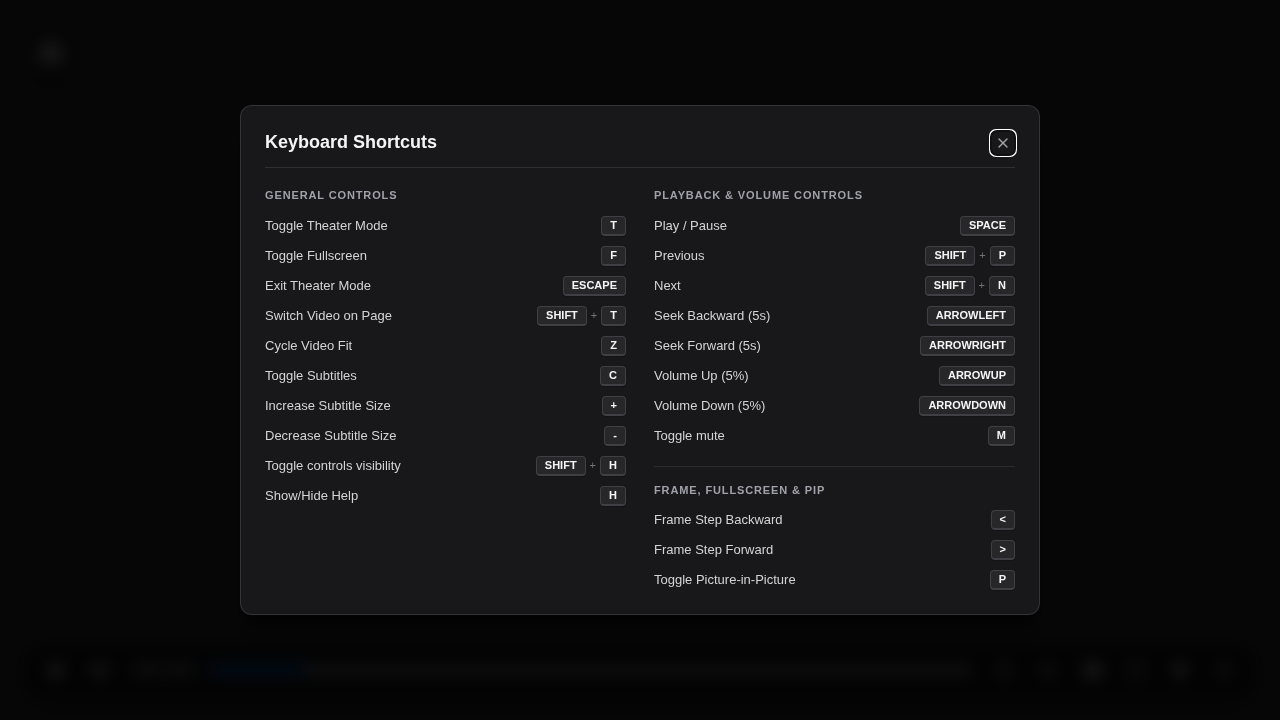
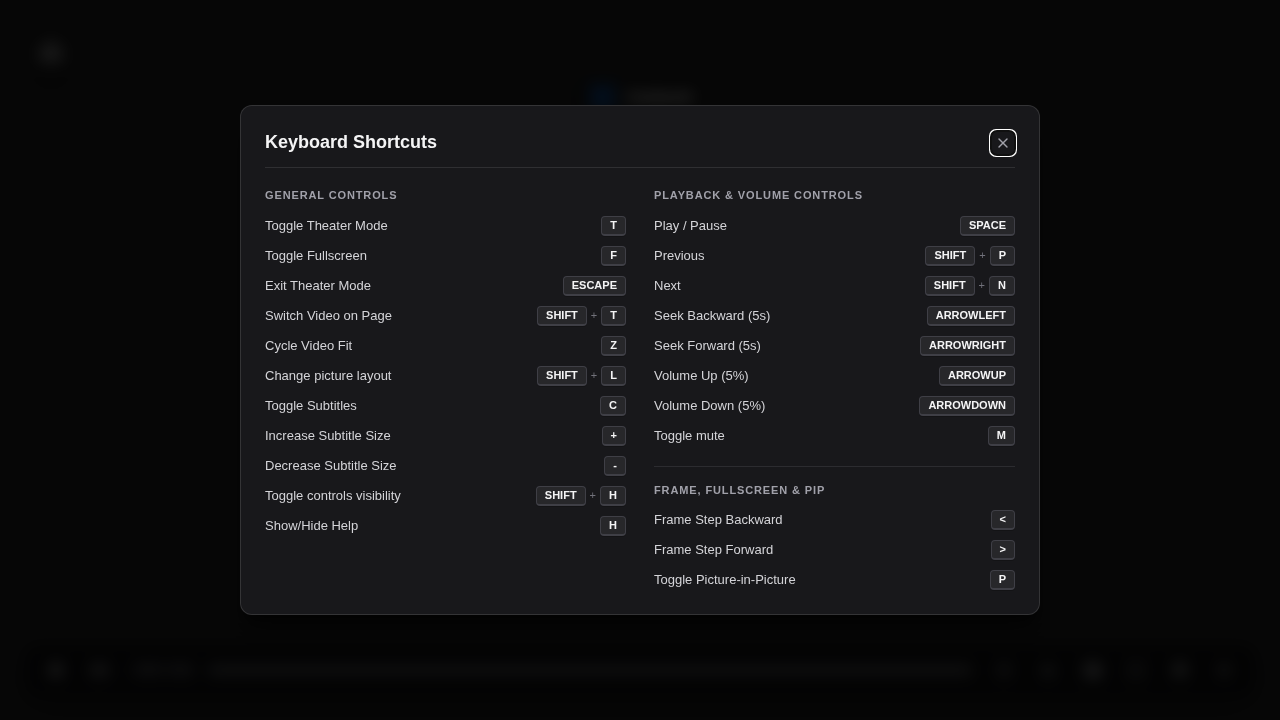
Add player layout setting and configurable Shift+L shortcut

diff --git a/scripts/smoke.ts b/scripts/smoke.ts
@@ -195,7 +195,7 @@ async function assertControlsPin(page: Page, context?: BrowserContext): Promise<
   const placement = await page.evaluate(() => {
     const root = document.getElementById('theater-everywhere-ui')!.shadowRoot!;
     const primary = ['play-pause-btn', 'playlist-prev-btn', 'playlist-next-btn', 'volume-btn', 'speed-btn', 'cc-btn', 'pip-btn', 'fullscreen-btn', 'close-btn'];
-    const secondary = ['video-fit-btn', 'controls-visibility-toggle', 'help-btn'];
+    const secondary = ['video-fit-btn', 'picture-layout-btn', 'controls-visibility-toggle', 'help-btn'];
     return [...primary.map(name => ({ name, expected: '.theater-controls-row' })), ...secondary.map(name => ({ name, expected: '.theater-settings-menu' }))]
       .filter(({ name, expected }) => {
         const buttons = root.querySelectorAll(`.${name}`);
@@ -317,6 +317,8 @@ async function assertControlsPin(page: Page, context?: BrowserContext): Promise<
   if (!await menu.locator('.video-fit-btn').evaluate(button => button.matches(':focus'))) {
     fail('Tab from the trigger skipped open settings.');
   }
+  await page.keyboard.press('Tab');
+  if (!await menu.locator('.picture-layout-btn').evaluate(button => button.matches(':focus'))) fail('Tab skipped the picture layout setting.');
   await page.keyboard.press('Tab');
   if (!await pin.evaluate(button => button.matches(':focus'))) fail('Tab skipped the controls visibility setting.');
   await page.keyboard.press('Tab');
@@ -793,7 +795,90 @@ async function assertShortcutManagement(page: Page, context: BrowserContext): Pr
 }
 
 
-async function assertFullscreenAndHelp(page: Page, earlyHost = false): Promise<void> {
+async function assertPictureLayout(page: Page, context?: BrowserContext): Promise<void> {
+  const video = page.locator('video#player');
+  const gear = page.locator('.player-settings-btn');
+  const row = page.locator('.picture-layout-btn');
+  await page.setViewportSize({ width: 1280, height: 900 });
+  await gear.click();
+  await row.waitFor();
+  if (await row.getAttribute('aria-keyshortcuts') !== 'Shift+L') fail('Layout shortcut is missing from player settings.');
+  const waitPosition = async (position: string) => {
+    await page.waitForFunction(position => getComputedStyle(document.querySelector('video#player')!).objectPosition === position, position, { timeout: 5000 });
+  };
+  await row.click();
+  await waitPosition('50% 0%');
+  if (await row.locator('.theater-settings-detail').innerText() !== 'Raised') fail('Layout row did not update after a click.');
+  await page.keyboard.down('Shift');
+  await page.keyboard.down('l');
+  await page.keyboard.down('l');
+  await page.keyboard.up('l');
+  await page.keyboard.up('Shift');
+  await waitPosition('50% 50%');
+  if (await row.locator('.theater-settings-detail').innerText() !== 'Centered') fail('Held layout shortcut toggled repeatedly.');
+  await page.evaluate(() => {
+    const host = document.createElement('div'); host.id = 'layout-input-test';
+    const input = document.createElement('input'); host.attachShadow({ mode: 'open' }).append(input);
+    document.body.append(host); input.focus();
+  });
+  await page.keyboard.press('Shift+L');
+  if (await video.evaluate(video => getComputedStyle(video).objectPosition) !== '50% 50%') fail('Layout shortcut fired in a shadow input.');
+  await page.evaluate(() => document.getElementById('layout-input-test')?.remove());
+  if (!await row.isVisible()) await gear.click();
+  const fit = page.locator('.video-fit-btn');
+  await fit.click(); // Fill keeps the chosen layout preference, but centers the picture.
+  await row.click();
+  await waitPosition('50% 50%');
+  await fit.click(); // Stretch.
+  await waitPosition('50% 50%');
+  await fit.click(); // Back to Fit restores Raised.
+  await waitPosition('50% 0%');
+  if (context) {
+    const worker = await extensionWorker(context);
+    const options = await context.newPage();
+    try {
+      await options.goto(new URL('options/options.html', worker.url()).href);
+      await options.waitForSelector('.shortcuts-grid[aria-busy="false"]');
+      await options.waitForSelector('[data-picture-align="top"][aria-checked="true"]');
+      await options.locator('#shortcut-cycle-layout').press('Shift+K');
+      await page.waitForFunction(() => document.getElementById('theater-everywhere-ui')?.shadowRoot?.querySelector('.picture-layout-btn')?.getAttribute('aria-keyshortcuts') === 'Shift+K');
+      await page.bringToFront();
+      await page.keyboard.press('Shift+L');
+      if (await video.evaluate(video => getComputedStyle(video).objectPosition) !== '50% 0%') fail('Old layout shortcut remained active after customization.');
+      await page.keyboard.press('Shift+K');
+      await waitPosition('50% 50%');
+      await options.waitForSelector('[data-picture-align="center"][aria-checked="true"]');
+      await options.locator('[data-picture-align="center"]').focus();
+      await page.keyboard.press('Shift+K');
+      await waitPosition('50% 0%');
+      await options.waitForFunction(() => document.activeElement?.matches('[data-picture-align="top"][aria-checked="true"][tabindex="0"]'));
+      await options.bringToFront();
+      await options.keyboard.press('Enter');
+      await waitPosition('50% 0%');
+      await options.locator('[data-picture-align="center"]').click();
+      await waitPosition('50% 50%');
+      await options.locator('[data-picture-align="top"]').click();
+      await waitPosition('50% 0%');
+      await options.locator('[data-shortcut="cycleLayout"]').click();
+      await page.waitForFunction(() => document.getElementById('theater-everywhere-ui')?.shadowRoot?.querySelector('.picture-layout-btn')?.getAttribute('aria-keyshortcuts') === 'Shift+L');
+    } finally { await options.close(); }
+    await page.bringToFront();
+    if (!await row.isVisible()) await gear.click();
+  }
+  if (process.env.THEATER_SMOKE_SCREENSHOT) {
+    await page.mouse.move(640, 300);
+    await row.focus();
+    await page.locator('.theater-everywhere-volume-overlay.status-hud').waitFor({ state: 'detached' });
+    await page.screenshot({ path: process.env.THEATER_SMOKE_SCREENSHOT.replace(/\.png$/, '-layout.png') });
+  }
+  await row.click(); // Restore Centered for the remaining smoke scenarios.
+  await waitPosition('50% 50%');
+  await page.keyboard.press('Escape'); // Close settings while keeping the session active.
+  await page.setViewportSize({ width: 1280, height: 720 });
+  console.log('smoke layout: settings row, repeat/input/help guards, Fit/Fill/Stretch, saved preference and live shortcut updates passed');
+}
+
+async function assertFullscreenAndHelp(page: Page, earlyHost = false, context?: BrowserContext): Promise<void> {
   await page.bringToFront();
   await page.locator('video#player').evaluate(async (video: HTMLVideoElement) => {
     video.srcObject = null; video.src = '/vod.webm'; video.loop = true; await video.play();
@@ -806,6 +891,7 @@ async function assertFullscreenAndHelp(page: Page, earlyHost = false): Promise<v
   if (earlyHost && await page.evaluate(() => (window as any).hostEntryKeys.filter((key: string) => key === 'KeyF').length) !== hostCountBefore) fail('Host fullscreen keydown was not intercepted.');
   await page.keyboard.press('f');
   await page.waitForFunction(() => !document.fullscreenElement);
+  await assertPictureLayout(page, context);
   await page.keyboard.press('h');
   const help = page.locator('.theater-help-overlay');
   await help.waitFor();
@@ -815,19 +901,21 @@ async function assertFullscreenAndHelp(page: Page, earlyHost = false): Promise<v
       rows: overlay.querySelectorAll('.theater-help-row').length,
       closeVisible: overlay.querySelector('.theater-help-close-btn')!.getBoundingClientRect().top >= 0 };
   });
+  await page.keyboard.press('Shift+L');
+  if (await page.locator('video#player').evaluate(video => getComputedStyle(video).objectPosition) !== '50% 50%') fail('Layout shortcut fired behind keyboard help.');
   const wide = await inspect();
-  if (wide.columns !== 2 || wide.rows !== 21 || !wide.closeVisible) fail(`Wide keyboard help lost layout or actions: ${JSON.stringify(wide)}`);
+  if (wide.columns !== 2 || wide.rows !== 22 || !wide.closeVisible) fail(`Wide keyboard help lost layout or actions: ${JSON.stringify(wide)}`);
   await help.evaluate(async overlay => { await Promise.all(overlay.getAnimations({ subtree: true }).map(animation => animation.finished)); });
   if (process.env.THEATER_SMOKE_SCREENSHOT) await page.screenshot({ path: process.env.THEATER_SMOKE_SCREENSHOT.replace(/\.png$/, '-help-columns.png') });
   await page.setViewportSize({ width: 540, height: 480 });
   const narrow = await inspect();
-  if (narrow.columns !== 1 || narrow.rows !== 21 || !narrow.closeVisible) fail(`Narrow help is inaccessible: ${JSON.stringify(narrow)}`);
+  if (narrow.columns !== 1 || narrow.rows !== 22 || !narrow.closeVisible) fail(`Narrow help is inaccessible: ${JSON.stringify(narrow)}`);
   await page.locator('.theater-help-close-btn').press('Enter');
   await help.waitFor({ state: 'detached' });
   await page.setViewportSize({ width: 1280, height: 720 });
   await page.keyboard.press('Escape');
   await page.locator('.theater-controls-wrapper').waitFor({ state: 'detached' });
-  console.log('smoke fullscreen/help: TME document fullscreen, host interception, all 21 shortcuts in responsive two/one-column help passed');
+  console.log('smoke fullscreen/help: TME document fullscreen, host interception, all 22 shortcuts in responsive two/one-column help passed');
 }
 
 async function injectBundledPlayer(page: Page, unpackedDir: string): Promise<void> {
@@ -890,6 +978,10 @@ async function assertIframeHandshake(page: Page, origin: string): Promise<void> 
   await page.waitForFunction(() => document.fullscreenElement === document.documentElement);
   await page.locator('body').press('f');
   await page.waitForFunction(() => !document.fullscreenElement);
+  await page.locator('body').press('Shift+L');
+  await frame.locator('.picture-layout-btn .theater-settings-detail').filter({ hasText: 'Raised' }).waitFor({ state: 'attached' });
+  await frame.locator('body').press('Shift+L');
+  await frame.locator('.picture-layout-btn .theater-settings-detail').filter({ hasText: 'Centered' }).waitFor({ state: 'attached' });
   // A shortcut focused in the parent must update the child player exactly once.
   await page.locator('body').press('Shift+H');
   await frame.locator('.controls-visibility-toggle[aria-pressed="true"]').waitFor({ state: 'attached' });
@@ -975,7 +1067,7 @@ async function smokeChromium(origin: string, unpackedDir: string): Promise<void>
     await waitForPlayer(page);
     if (process.env.THEATER_SMOKE_SHORTCUTS_ONLY !== '1') await assertControlsPin(page, context);
     await assertShortcutManagement(page, context);
-    await assertFullscreenAndHelp(page, true);
+    await assertFullscreenAndHelp(page, true, context);
 
     await setBlacklist(context, ['127.0.0.1']);
     await assertBlacklistBlocksTheater(page);

diff --git a/src/ui/player-runtime.ts b/src/ui/player-runtime.ts
@@ -250,6 +250,9 @@ function executeCommand(command: PlayerCommand): void {
     case 'CYCLE_VIDEO':
       cycleTheaterVideo(command.direction);
       break;
+    case 'CYCLE_LAYOUT':
+      cyclePictureLayout();
+      break;
     case 'CYCLE_FIT':
       cycleVideoFit();
       break;
@@ -569,6 +572,21 @@ function toggleControlsPin(): void {
     }
   } catch (error) {
     console.error('[Theater Everywhere] Could not save controls visibility:', error);
+  }
+}
+
+function cyclePictureLayout(): void {
+  const next: PictureAlign = ui().pictureAlign === 'center' ? 'top' : 'center';
+  applyPictureAlign(next);
+  triggerStatusIndicator(t(next === 'top' ? 'pictureAlignTop' : 'pictureAlignCenter'), STATUS_HUD_FIT_ICON);
+  try {
+    if (typeof chrome !== 'undefined' && chrome.storage?.sync) {
+      void chrome.storage.sync.set({ [PICTURE_ALIGN_STORAGE_KEY]: next }).catch(error => {
+        console.error('[Theater Everywhere] Could not save picture layout:', error);
+      });
+    }
+  } catch (error) {
+    console.error('[Theater Everywhere] Could not save picture layout:', error);
   }
 }
 
@@ -985,6 +1003,14 @@ function initialize(): void {
       event.stopPropagation();
       event.stopImmediatePropagation();
       executeCommand({ type: 'CYCLE_VIDEO', direction: 'next' });
+      return;
+    }
+
+    if (session.element && matchesShortcut(event, shortcuts.cycleLayout)) {
+      event.preventDefault();
+      event.stopPropagation();
+      event.stopImmediatePropagation();
+      if (!ui().helpOpen && !event.repeat) executeCommand({ type: 'CYCLE_LAYOUT' });
       return;
     }
 

diff --git a/src/ui/shortcuts.test.ts b/src/ui/shortcuts.test.ts
@@ -25,6 +25,7 @@ describe('shortcut matching', () => {
   it('adds the pin shortcut to older settings without conflicting with help or losing custom keys', () => {
     const oldSettings = withShortcutDefaults({ showHelp: 'H', toggle: 'Ctrl+T' });
     assert.equal(oldSettings.toggleControlsPin, 'Shift+H');
+    assert.equal(oldSettings.cycleLayout, 'Shift+L');
     assert.equal(oldSettings.toggle, 'Ctrl+T');
     const pin = key({ key: 'H', code: 'KeyH', shiftKey: true });
     assert.equal(matchesShortcut(pin, oldSettings.toggleControlsPin), true);
@@ -73,6 +74,14 @@ describe('shortcut matching', () => {
 });
 
 describe('shortcut ownership', () => {
+  it('introduces Layout without taking Shift+L from an existing custom binding', () => {
+    const migrated = withShortcutDefaults({ showHelp: 'Shift+L' });
+    assert.equal(migrated.showHelp, 'Shift+L');
+    assert.equal(migrated.cycleLayout, '');
+    assert.deepEqual(shortcutConflicts(migrated, 'cycleLayout', 'Shift+L'), ['showHelp']);
+    const explicit = withShortcutDefaults({ showHelp: 'Shift+L', cycleLayout: 'Shift+L' });
+    assert.equal(explicit.cycleLayout, 'Shift+L'); // Existing explicit duplicates remain visible for user resolution.
+  });
   it('detects runtime aliases and implicit Shift without merging distinct modifiers', () => {
     for (const [a, b] of [['f', 'F'], ['F', 'KeyF'], ['+', '='], ['+', 'Shift+='], ['Ctrl++', 'Ctrl+Equal'], ['<', 'Shift+Comma'], ['Space', 'Spacebar']]) {
       assert.equal(shortcutsConflict(a, b), true, `${a} / ${b}`);

diff --git a/options/options.html b/options/options.html
@@ -222,6 +222,17 @@
                 </div>
               </div>
               <div class="shortcut-row">
+                <label for="shortcut-cycle-layout" data-i18n="cyclePictureLayout">Change picture layout</label>
+                <div class="shortcut-input-wrapper">
+                  <input type="text" id="shortcut-cycle-layout" class="shortcut-input" readonly placeholder="Press keys..." data-i18n-placeholder="pressKeysPlaceholder">
+                  <button type="button" class="reset-single-btn" data-shortcut="cycleLayout" title="Reset to default" data-i18n-title="resetToDefault">
+                    <svg xmlns="http://www.w3.org/2000/svg" viewBox="0 0 24 24" width="14" height="14" fill="none" stroke="currentColor" stroke-width="2" stroke-linecap="round" stroke-linejoin="round">
+                      <path d="M2.5 2v6h6M21.5 22v-6h-6M22 11.5A10 10 0 0 0 3.2 7.2M2 12.5a10 10 0 0 0 18.8 4.3"></path>
+                    </svg>
+                  </button>
+                </div>
+              </div>
+              <div class="shortcut-row">
                 <label for="shortcut-toggle-captions" data-i18n="toggleSubtitles">Toggle Subtitles</label>
                 <div class="shortcut-input-wrapper">
                   <input type="text" id="shortcut-toggle-captions" class="shortcut-input" readonly placeholder="Press keys..." data-i18n-placeholder="pressKeysPlaceholder">

diff --git a/options/options.ts b/options/options.ts
@@ -114,6 +114,7 @@ async function init() {
     chrome.storage.onChanged.addListener((changes, areaName) => {
       if (areaName !== 'sync') return;
       if (changes.shortcuts) void shortcutEditor.refresh();
+      if (changes[PICTURE_ALIGN_STORAGE_KEY]) renderPictureAlignOptions(resolvePictureAlign(changes[PICTURE_ALIGN_STORAGE_KEY].newValue));
       if (changes[KEEP_CONTROLS_VISIBLE_STORAGE_KEY]) {
         const toggle = document.getElementById('keep-controls-visible-toggle') as HTMLInputElement | null;
         if (toggle) toggle.checked = resolveKeepControlsVisible(changes[KEEP_CONTROLS_VISIBLE_STORAGE_KEY].newValue);
@@ -432,6 +433,11 @@ async function init() {
       const description = button.querySelector('.picture-align-desc');
       if (name) name.textContent = t(align === 'top' ? 'pictureAlignTop' : 'pictureAlignCenter');
       if (description) description.textContent = t(align === 'top' ? 'pictureAlignTopDescription' : 'pictureAlignCenterDescription');
+    }
+    // Keep roving focus on the selected radio when the player changes this preference.
+    const focused = buttons.find((button) => button === document.activeElement);
+    if (focused?.getAttribute('aria-checked') === 'false') {
+      buttons.find((button) => button.getAttribute('aria-checked') === 'true')?.focus();
     }
     return true;
   }

diff --git a/src/ui/controls.ts b/src/ui/controls.ts
@@ -887,6 +887,19 @@ export function createControls(ctx: PlayerChromeContext) {
     updateFitRow();
     controlsScope.add(ctx.uiStore.subscribe(updateFitRow));
 
+    const layoutBtn = document.createElement('button');
+    layoutBtn.className = 'theater-control-btn picture-layout-btn';
+    setIcon(layoutBtn, `<svg xmlns="http://www.w3.org/2000/svg" viewBox="0 0 24 24" width="16" height="16" fill="none" stroke="currentColor" stroke-width="2" stroke-linecap="round" stroke-linejoin="round"><rect x="3" y="3" width="18" height="18" rx="2"/><rect x="6" y="6" width="12" height="7" rx="1"/><path d="M8 17h8"/></svg>`);
+    layoutBtn.addEventListener('click', event => {
+      event.stopPropagation();
+      executeCommand({ type: 'CYCLE_LAYOUT' });
+    });
+    const layoutRow = settings.addRow(layoutBtn, t('pictureAlignLabel'));
+    const updateLayoutRow = () => layoutRow.update(ui().shortcuts.cycleLayout,
+      t(ui().pictureAlign === 'top' ? 'pictureAlignTop' : 'pictureAlignCenter'));
+    updateLayoutRow();
+    controlsScope.add(ctx.uiStore.subscribe(updateLayoutRow));
+
     // Switch Video Button (Only if there are multiple real video players on the page)
     const videosOnPage = selectSwitchableVideos(findAllVideosDeep(document), video);
     if (videosOnPage.length > 1) {

diff --git a/src/ui/shortcuts.ts b/src/ui/shortcuts.ts
@@ -17,6 +17,7 @@ export interface Shortcuts {
   showHelp: string;
   toggleControlsPin: string;
   cycleFit: string;
+  cycleLayout: string;
   toggleCaptions: string;
   increaseCaptionSize: string;
   decreaseCaptionSize: string;
@@ -41,6 +42,7 @@ export const defaultShortcuts: Shortcuts = {
   showHelp: 'H',
   toggleControlsPin: 'Shift+H',
   cycleFit: 'Z',
+  cycleLayout: 'Shift+L',
   toggleCaptions: 'C',
   increaseCaptionSize: '+',
   decreaseCaptionSize: '-'
@@ -54,6 +56,10 @@ export function withShortcutDefaults(saved: Record<string, unknown> | undefined)
     // An explicit empty value disables a shortcut; absent values still migrate to defaults.
     if (typeof value === 'string') next[key] = value;
   });
+  // Introducing Layout must not steal Shift+L from an existing custom action.
+  if (typeof saved.cycleLayout !== 'string' && shortcutConflicts(next, 'cycleLayout', next.cycleLayout).length) {
+    next.cycleLayout = '';
+  }
   return next;
 }
 

diff --git a/src/ui/help.ts b/src/ui/help.ts
@@ -84,6 +84,7 @@ export function createHelp(ctx: PlayerChromeContext) {
           { label: ctx.t('exitTheaterMode'), key: shortcuts.exit },
           { label: ctx.t('cycleSwitchVideo'), key: shortcuts.cycle },
           { label: ctx.t('cycleVideoFit'), key: shortcuts.cycleFit },
+          { label: ctx.t('cyclePictureLayout'), key: shortcuts.cycleLayout },
           { label: ctx.t('toggleSubtitles'), key: shortcuts.toggleCaptions },
           { label: ctx.t('increaseSubtitleSize'), key: shortcuts.increaseCaptionSize },
           { label: ctx.t('decreaseSubtitleSize'), key: shortcuts.decreaseCaptionSize },

diff --git a/src/i18n.ts b/src/i18n.ts
@@ -43,6 +43,7 @@ export const FALLBACK_MESSAGES: Record<string, string> = {
   createdByHtml: 'Created by <a href="https://tomaszjanusz.dev" target="_blank" rel="noopener noreferrer">Tomasz Janusz</a>',
   appearanceTitle: 'Appearance',
   appearanceDescription: 'Choose where the picture sits, and the accent for controls, sliders, shortcuts, and highlights.',
+  cyclePictureLayout: 'Change picture layout',
   pictureAlignLabel: 'Layout',
   pictureAlignCenter: 'Centered',
   pictureAlignCenterDescription: 'Picture stays in the middle of the screen. Best\u00a0for\u00a016:9\u00a0screens.',

diff --git a/src/ui/messages.ts b/src/ui/messages.ts
@@ -12,6 +12,10 @@ export const PLAYER_I18N_FALLBACKS: Record<string, string> = {
   playerSettingsLabel: "Player settings",
   extensionSettingsLabel: "Extension settings",
   videoFitLabel: "Video fit",
+  pictureAlignLabel: 'Layout',
+  pictureAlignCenter: 'Centered',
+  pictureAlignTop: 'Raised',
+  cyclePictureLayout: 'Change picture layout',
   controlsVisibilityOn: "On",
   controlsVisibilityOff: "Off",
   keepControlsVisibleTitle: "Always show controls",

diff --git a/src/core/player-session.ts b/src/core/player-session.ts
@@ -21,6 +21,7 @@ export type PlayerCommand =
   | { type: 'STEP_CAPTION_SIZE'; direction: 1 | -1 }
   | { type: 'CYCLE_VIDEO'; direction?: 'next' | 'prev' }
   | { type: 'CYCLE_FIT' }
+  | { type: 'CYCLE_LAYOUT' }
   | { type: 'TOGGLE_HELP' }
   | { type: 'TOGGLE_CONTROLS_PIN' };
 

diff --git a/CHANGELOG.md b/CHANGELOG.md
@@ -9,6 +9,8 @@ and this project adheres to [Semantic Versioning](https://semver.org/spec/v2.0.0
 
 ### Added
 
+- Change the Centered/Raised picture layout from Player settings or the configurable Shift+L shortcut. The preference is shared with Settings → Appearance.
+
 - Shortcut conflict validation in Settings: keep the existing assignment or move it to another action, leaving the previous action unassigned. Existing duplicate shortcuts are highlighted.
 
 - Keep the playback controls and progress bar visible in theater mode using Player settings → Always show controls, the configurable Shift+H shortcut, or Settings → Features → Always show controls. The preference is remembered across videos and tabs; the title and cursor still hide when idle.
